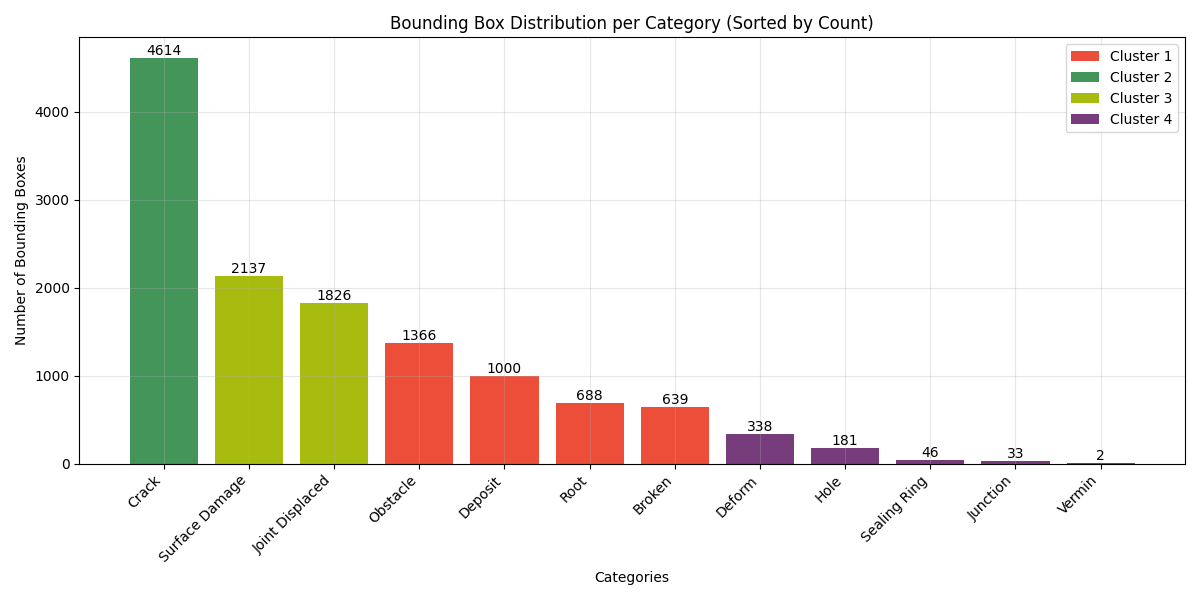
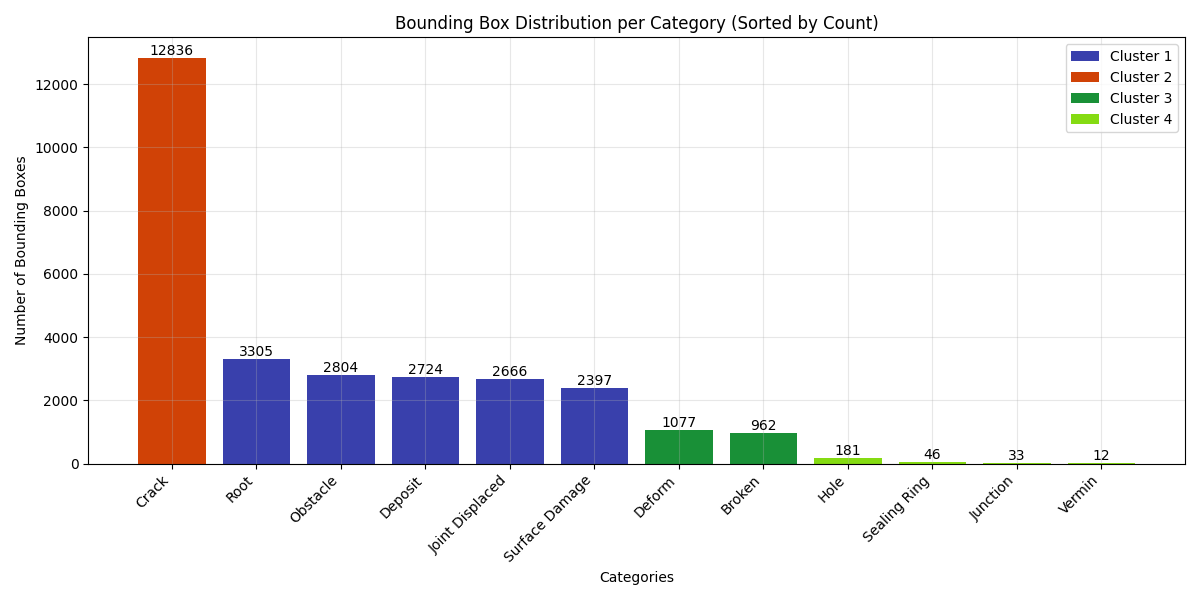
change name / modify the dir's

diff --git a/Utils/FixAnnotation.py b/Utils/FixAnnotation.py
@@ -118,7 +118,7 @@ class ImageCleaner:
         
     def _save_json(self, path, data):
         with open(path, "w") as f:
-            json.dump(data, f, indent=4)
+            json.dump(data, f)
         print(f"Saved annotations to {path}")
         
     def update_annotations_with_bbox(self):
@@ -168,6 +168,35 @@ class ImageCleaner:
         
         print(f"Unique categories: {[cat['name'] for cat in unique_categories]}")
 
+    def reindex_image_ids(self):
+        """
+        Reindex all image_id values in annotations to ensure they match the image IDs.
+        This ensures consistency between image IDs and their references in annotations.
+        """
+        print("Reindexing image IDs in annotations...")
+        
+        # Create a mapping from old image IDs to new sequential IDs
+        old_to_new_image_id = {}
+        for new_id, image in enumerate(self.data['images'], 1):
+            old_to_new_image_id[image['id']] = new_id
+            image['id'] = new_id
+        
+        # Update all annotations with the new image IDs
+        # Filter out annotations with non-existent image IDs and update valid ones
+        valid_annotations = []
+        for annotation in self.data['annotations']:
+            old_id = annotation['image_id']
+            if old_id in old_to_new_image_id:
+                annotation['image_id'] = old_to_new_image_id[old_id]
+                valid_annotations.append(annotation)
+            else:
+                print(f"Removing annotation with non-existent image ID: {old_id}")
+        
+        self.data['annotations'] = valid_annotations
+        
+        self._save_annotations()
+        
+        print(f"Reindexed {len(old_to_new_image_id)} image IDs in {len(self.data['annotations'])} annotations")
     def _load_json(self, path):
         with open(path) as f:
             return json.load(f)
@@ -175,8 +204,8 @@ class ImageCleaner:
 if __name__ == "__main__":
     cleaner = ImageCleaner()
     basic_annotation_path = cleaner.paths.output / "I_Basic_annotations.coco.json"
-    manual_annotation_path = cleaner.paths.output / "II_annotations.coco.json" # Should be annotatated by your own
-
+    manual_annotation_path = cleaner.paths.output / "final.json" # Should be annotatated by your own
+    manual_annotation_path = Path(r"C:\Users\sobha\Desktop\detectron2\Data\RoboFlowData\8.sewer-final.v3i.coco\combined\final.json")
     if not manual_annotation_path.exists():
         cleaner.data = cleaner._load_json(basic_annotation_path)
         cleaner.update_uniqueCategory()
@@ -186,5 +215,7 @@ if __name__ == "__main__":
         cleaner.convert_rectangles_to_polygons()
     else:
         cleaner.data = cleaner._load_json(manual_annotation_path)
+        cleaner.reindex_image_ids()
         #cleaner.remove_unannotated_images(ShouldDeletePic=False)
-        cleaner.update_annotations_with_bbox()
+        # cleaner.update_annotations_with_bbox()
+

diff --git a/PreProcess/Sam2pro_Polygon copy.py b/PreProcess/Sam2pro_Polygon copy.py
@@ -92,9 +92,9 @@ class SAM2PolygonConverter:
         self.predictor = SAM2ImagePredictor(self.sam2_model)
         
         # Set paths
-        self.folder_images = Path(r"C:\Users\sobha\Desktop\detectron2\Data\RoboFlowData\7.divide-data_1X.v1-camere_pipe_75-25.coco\combined")
+        self.folder_images = Path(r"C:\Users\sobha\Desktop\detectron2\Data\RoboFlowData\8.sewer-final.v3i.coco\combined")
         self.final_json_modify_path = self.folder_images / "Final_Pro_Polygon.json"
-        self.final_json_path = self.folder_images / "II_FixAnnotation_annotations.coco.json"
+        self.final_json_path = self.folder_images / "Final_Pro_Polygon_backup_20250418_180500.json"
         self.checkpoint_path = self.folder_images / "annotation_checkpoint.txt"
         
         # Point visualization params
@@ -343,7 +343,7 @@ class SAM2PolygonConverter:
                         total_points = len(annotation['segmentation'][0]) // 2  # Each point has x,y coords
                     
                     if total_points > 50:
-                        logger.info(f"Annotation {ann_idx+1} already has complex segmentation with {total_points} points, skipping")
+                        # logger.info(f"Annotation {ann_idx+1} already has complex segmentation with {total_points} points, skipping")
                         continue
             
             bbox = annotation['bbox']
@@ -979,7 +979,8 @@ class SAM2PolygonConverter:
                               float(x2), float(y2), float(x1), float(y2)]
                 
                 if annotation['segmentation'] == [bbox_polygon]:
-                    logger.info(f"Annotation {ann_idx+1} has basic bbox segmentation, processing it")
+                    pass
+                    # logger.info(f"Annotation {ann_idx+1} has basic bbox segmentation, processing it")
                 else:
                     # Skip non-bbox segmentations
                     if isinstance(annotation['segmentation'], list) and len(annotation['segmentation']) > 0:
@@ -1101,7 +1102,7 @@ if __name__ == "__main__":
     
     # Check if automatic mode is requested via command line
     automatic_mode = "--auto" in sys.argv
-    automatic_mode = False
+    automatic_mode = True
     if automatic_mode:
         logger.info("Running in automatic mode - no UI will be shown")
         

diff --git a/Utils/MergeTrainingProject.py b/Utils/MergeTrainingProject.py
@@ -2,7 +2,6 @@ import os
 import shutil
 import json
 from collections import defaultdict
-from mergeTrainTestFile import DatasetPaths
 from pathlib import Path
 from PIL import Image
 RootPath = 'C:/Users/sobha/Desktop/detectron2/Data/RoboFlowData'
@@ -11,11 +10,15 @@ base_folders = [
     Path(RootPath) / '1.petro.v7i.coco',
     Path(RootPath) / '2. PipeMonitor.v1i.coco', 
     Path(RootPath) / '3.culv_data_6_class.v5i.coco',
-    Path(RootPath) / '4.aaaaaaaa.v2i.coco'
+    Path(RootPath) / '4.aaaaaaaa.v2i.coco',
+    Path(RootPath) / '5.pipeline.v1i.coco-segmentation',
+    Path(RootPath) / '6.Concrete Crack Ver.1.v3i.coco-segmentation',
+    Path(RootPath) / '7.divide-data_1X.v1-camere_pipe_75-25.coco',
+    Path(RootPath) / '8.sewer-final.v3i.coco'
 ]
 
 # Output paths
-output_folder = Path(RootPath) / 'MergeData(1-4)'
+output_folder = Path(RootPath) / 'MergeData(1-8)'
 output_images_folder = output_folder / 'images'
 output_annotation_file = output_folder / 'Final.json'
 
@@ -119,6 +122,6 @@ for folder in base_folders:
 
 # Save the merged annotations to the output file
 with open(output_annotation_file, 'w') as f:
-    json.dump(merged_annotations, f, indent=4)
+    json.dump(merged_annotations, f)
 
 print(f"Merged images and annotations saved to {output_folder}")

diff --git a/PreProcess/TempFixannnotations.py b/PreProcess/TempFixannnotations.py
@@ -377,9 +377,9 @@ def visualize_dimension_distribution(widths: List[float], heights: List[float]) 
     logger.info(f"Saved dimension distribution visualization to segmentation_dimension_distribution.png")
 
 if __name__ == "__main__":
-    input_file = r"C:\Users\sobha\Desktop\detectron2\Data\RoboFlowData\5.pipeline.v1i.coco-segmentation\combined\V_Sam2Annotation.json"
-    output_file = r"C:\Users\sobha\Desktop\detectron2\Data\RoboFlowData\5.pipeline.v1i.coco-segmentation\combined\V_Sam2Annotation_filtered.json"
-    images_dir = r"C:\Users\sobha\Desktop\detectron2\Data\RoboFlowData\5.pipeline.v1i.coco-segmentation\combined\images"
+    input_file = r"C:\Users\sobha\Desktop\detectron2\Data\RoboFlowData\8.sewer-final.v3i.coco\combined\IV_ManualAnnotation.json"
+    output_file = r"C:\Users\sobha\Desktop\detectron2\Data\RoboFlowData\8.sewer-final.v3i.coco\combined\IV_ManualAnnotation_filtered.json"
+    images_dir = r"C:\Users\sobha\Desktop\detectron2\Data\RoboFlowData\8.sewer-final.v3i.coco\combined\images"
     
     # Filter small segmentations with a threshold of 100 square pixels
     filter_small_segmentations(

diff --git a/PreProcess/III_SplitData.py b/PreProcess/III_SplitData.py
@@ -139,9 +139,9 @@ class DatasetSplitter:
         print(f"{split_name} split created with {len(split_images)} images and {len(split_annotations)} annotations")
 
 def main():
-    annotation_file = r"C:\Users\sobha\Desktop\detectron2\Data\RoboFlowData\MergeData(1-4)\Final_modified.json"
-    image_dir = r"C:\Users\sobha\Desktop\detectron2\Data\RoboFlowData\MergeData(1-4)\images_modified"
-    output_dir = r"C:\Users\sobha\Desktop\detectron2\Data\RoboFlowData\MergeData(1-4)\split_dataset"
+    annotation_file = r"C:\Users\sobha\Desktop\detectron2\Data\RoboFlowData\MergeData(1-8)\Final_modified.json"
+    image_dir = r"C:\Users\sobha\Desktop\detectron2\Data\RoboFlowData\MergeData(1-8)\images_modified"
+    output_dir = r"C:\Users\sobha\Desktop\detectron2\Data\RoboFlowData\MergeData(1-8)\split_dataset"
     
     splitter = DatasetSplitter(annotation_file, image_dir, output_dir)
     splitter.split_dataset()

diff --git a/PreProcess/I_CategoryRepresent.py b/PreProcess/I_CategoryRepresent.py
@@ -3,11 +3,11 @@ import matplotlib.pyplot as plt
 from collections import defaultdict
 import numpy as np
 from sklearn.cluster import KMeans
-from Config.basic_config import DATA_PATH
+# from Config.basic_config import DATA_PATH
 import os
 class COCOAnalyzer:
     def __init__(self):
-        annotation_file = os.path.join(DATA_PATH, "Final.json")
+        annotation_file = r"C:\Users\sobha\Desktop\detectron2\Data\RoboFlowData\MergeData(1-8)\Final.json" #os.path.join(DATA_PATH, "Final.json")
         self.annotation_file = annotation_file
         self.coco_data = None
         self.categories = None

diff --git a/PreProcess/II_DeleteLessRepCategory.py b/PreProcess/II_DeleteLessRepCategory.py
@@ -143,7 +143,7 @@ class CategoryDeleter:
         print(f"Copied {copied_count} images to {target_image_dir}")
 def main():
     # Example usage
-    annotation_file = r"C:\Users\sobha\Desktop\detectron2\Data\RoboFlowData\MergeData(1-4)\Final.json"
+    annotation_file = r"C:\Users\sobha\Desktop\detectron2\Data\RoboFlowData\MergeData(1-8)\Final.json"
     categories_to_delete = ["Vermin", "Junction", "Hole", "Sealing Ring"]
     
     deleter = CategoryDeleter(annotation_file)
